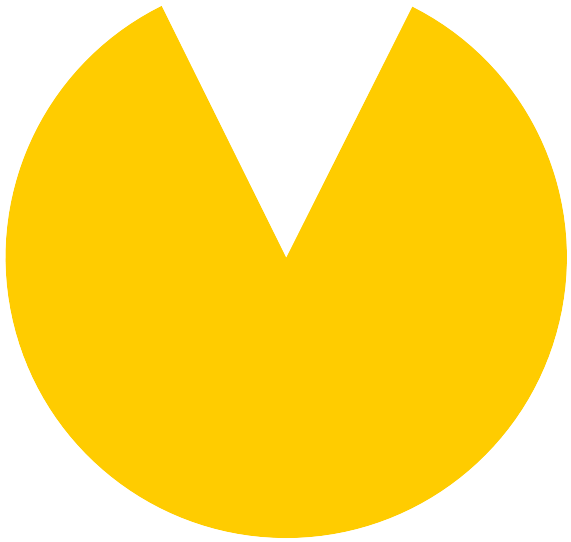
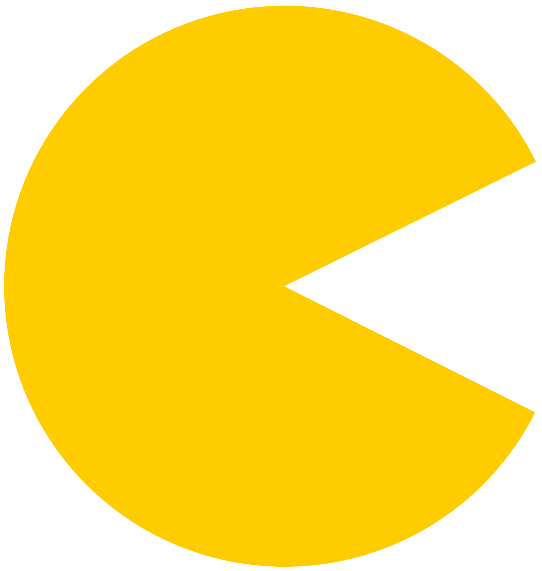
Update arena and robot parameters

diff --git a/python_challenge/robot.py b/python_challenge/robot.py
@@ -9,7 +9,7 @@ blue = (0, 0, 255)
 
 
 class Robot :
-    def __init__(self, center, radius=20, speed=10, angle=None):
+    def __init__(self, center, radius=20, speed=1, angle=None):
         filename = "pacman.png"
         image = pygame.image.load(filename).convert_alpha()
 
@@ -18,35 +18,44 @@ class Robot :
         if center is None:
             center = (radius, radius)        
         self.original_image = pygame.transform.scale(image, (radius*2, radius*2))
-        self.image = pygame.transform.rotate(self.original_image, angle)
+        self.image = pygame.transform.rotate(self.original_image, -angle)
         self.rect = self.image.get_rect(center = center)
         self.vector = pygame.math.Vector2()
         self.vector.from_polar((speed, angle))
         self.pos = pygame.math.Vector2(self.rect.center)
-        self.angle = angle
+        self.angle = -angle
+        self.radius = radius
     
     def forward(self):
         self.pos += self.vector
         self.rect.center = self.pos
 
     
-    def rotate(self, angle=1):
-        # self.vector.rotate(angle) 
-        self.angle =math.floor((self.angle+angle)%360)
-
-        self.image = pygame.transform.rotate(self.original_image, self.angle)
+    def rotate(self, delta=5):
+        self.angle += delta
+        # self.vector = self.vector.rotate(delta) 
+        self.image = pygame.transform.rotozoom(self.original_image, self.angle,1)
         self.rect = self.image.get_rect(center=self.rect.center)
 
 
    
-    def update(self, arena):
+    def run(self, arena):
         border_width = arena.border_width
-        if self.rect.left <= border_width or self.rect.right+border_width >= arena.rect.width:
-            # self.rotate()
-            pass
+        if self.rect.centerx<= border_width+self.radius:
+            self.rect.centerx = border_width+self.radius
+            self.rotate()
+        
+        elif self.rect.centerx >= arena.rect.width-border_width-self.radius:
+            self.rect.centerx = arena.rect.width-border_width-self.radius
+            self.rotate()
 
-        elif self.rect.top <= border_width or self.rect.bottom+border_width >= arena.rect.height:
-            # self.rotate()
+        elif self.rect.centery <= border_width+self.radius:
+            self.rect.centery = border_width+self.radius
+            self.rotate()
+            pass
+        elif self.rect.centery >= arena.rect.height-border_width-self.radius:
+            self.rect.centery = arena.rect.height-border_width-self.radius
+            self.rotate()
             pass
         else:
             self.forward()

diff --git a/python_challenge/arena.py b/python_challenge/arena.py
@@ -3,7 +3,7 @@ from robot import Robot
 
 
 class Arena() :
-    def __init__(self, width=1000, height=600, border_width=5) :
+    def __init__(self, width=1000, height=600, border_width=3) :
 
         self.image = pygame.Surface((width, height))
         self.rect = self.image.get_rect()
@@ -12,7 +12,7 @@ class Arena() :
     def draw(self, screen):
         pygame.draw.rect(screen, (0, 0, 0), self.rect, self.border_width)
 
-    def add_robot(self, center=None, radius=10, speed=10, angle=None):
+    def add_robot(self, center=None, radius=20, speed=5, angle=None):
         if center is None:
             center = (self.rect.width//2, self.rect.height//2)
         return Robot(center, radius, speed, angle)

diff --git a/python_challenge/main.py b/python_challenge/main.py
@@ -20,7 +20,7 @@ def main():
     clock = pygame.time.Clock()    
 
     arena = Arena()
-    robot = arena.add_robot(radius=20)
+    robot = arena.add_robot()
 
     while True:
         for event in pygame.event.get():
@@ -29,8 +29,7 @@ def main():
                 exit()
 
         #logical update
-        # robot.update(arena)
-        robot.rotate()
+        robot.run(arena)
 
         # render
         screen.fill(white)
@@ -39,7 +38,7 @@ def main():
         robot.draw(screen)
 
         pygame.display.update()
-        clock.tick(30)
+        clock.tick(60)
 
 
      
